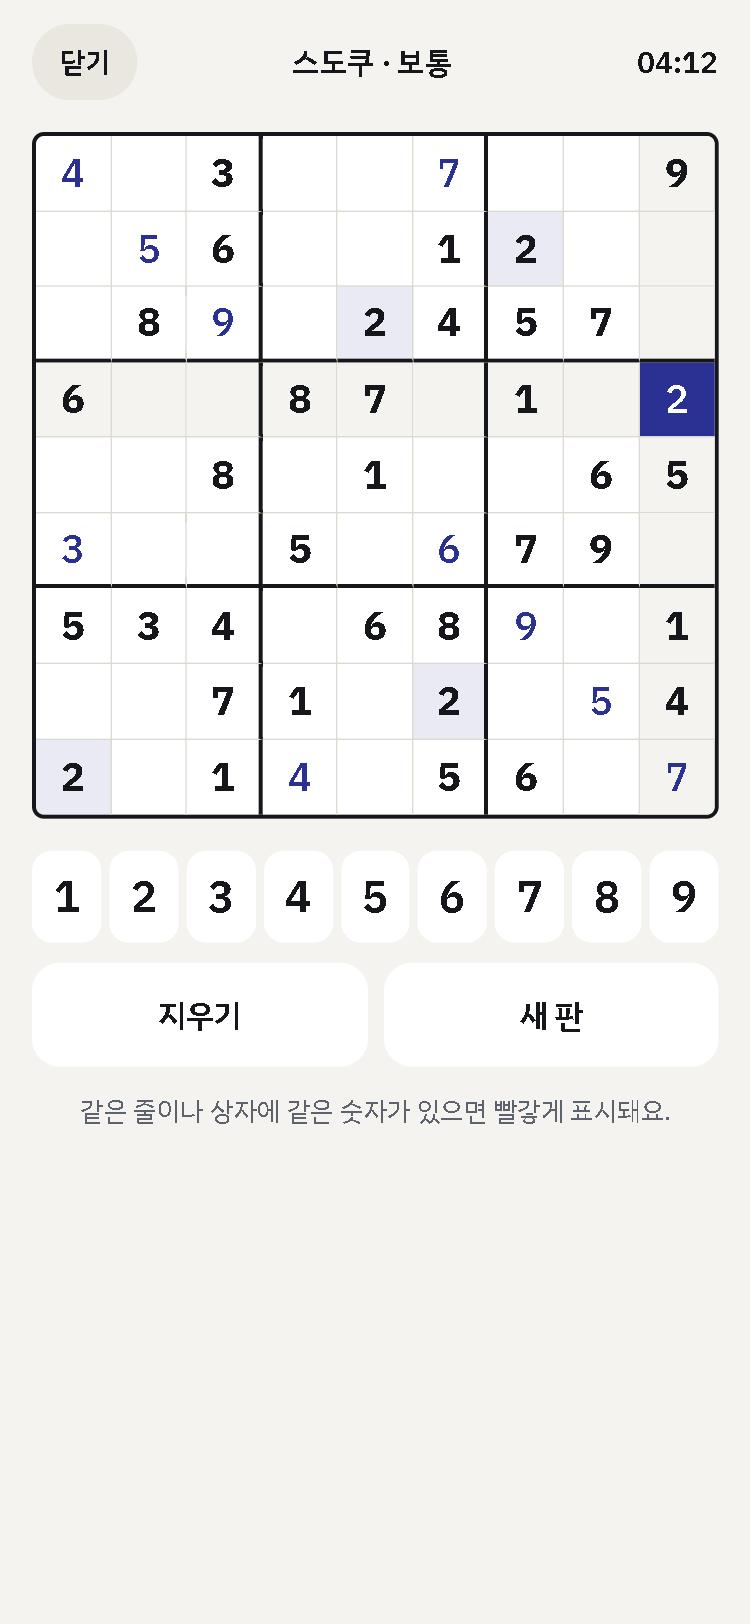
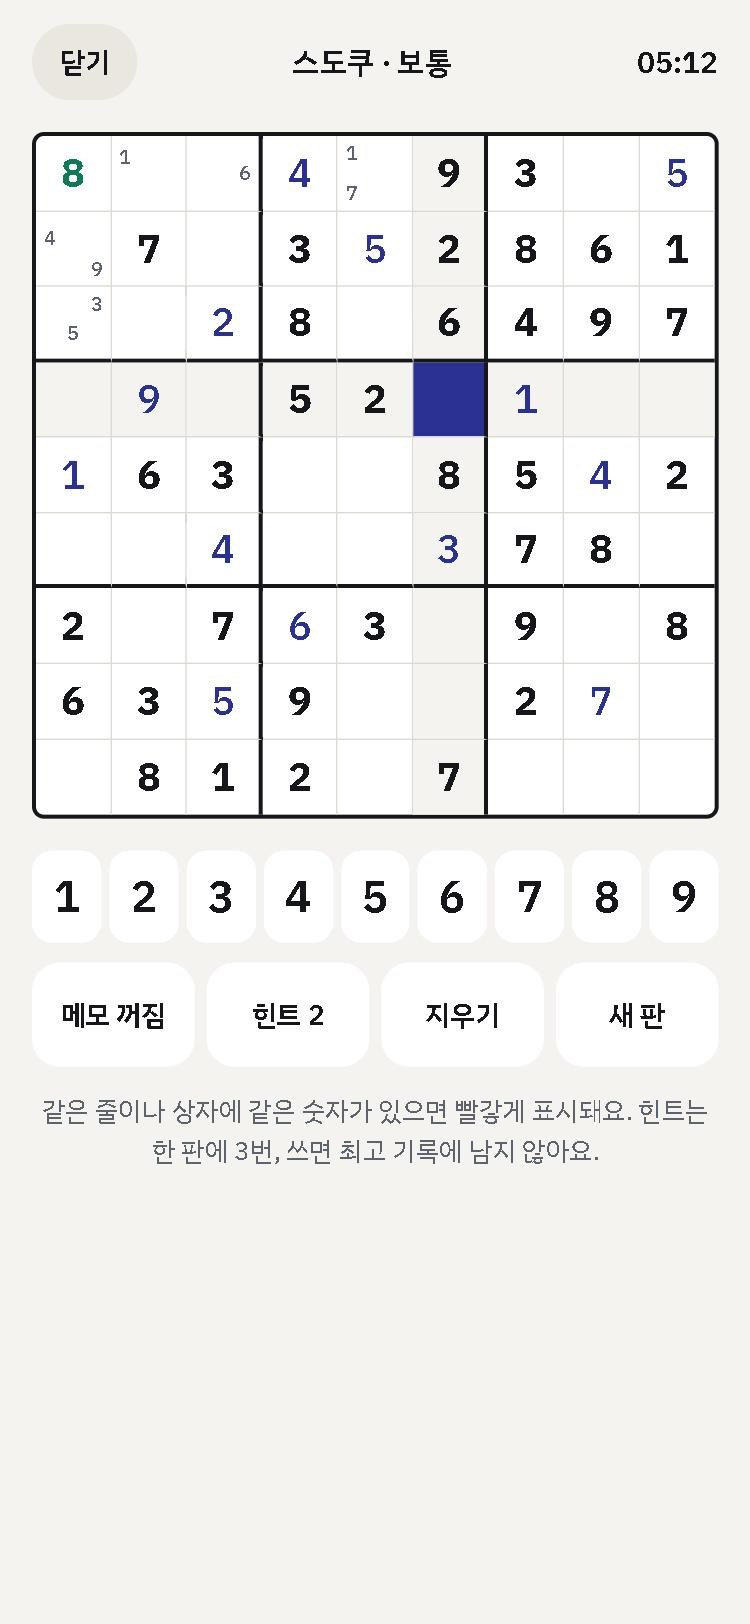
문서: 스도쿠 캡처를 메모·힌트가 보이는 화면으로, CLAUDE.md에 난이도 결정 기록

diff --git a/CLAUDE.md b/CLAUDE.md
@@ -119,6 +119,8 @@
 - **게임 기록은 증빙 묶음·정산 요청에 절대 섞지 않는다** (사장에게 보여주는 문서에 "근무 중 게임"이 보이면 안 됨)
 - **메모**(2026.10.6): "메모"를 켜고 숫자를 누르면 빈칸에 후보 숫자가 작게 적힌다(`game.notes`). 답을 넣으면 그 칸의 메모가 지워지고, 같은 줄·칸·상자의 메모에서 그 숫자가 빠진다
 - **힌트**(2026.10.6): 한 판에 3번(`MAX_HINTS`). 고른 칸이 비었거나 틀렸으면 그 칸을, 아니면 아무 빈칸 하나를 정답으로 채운다. 채운 칸은 초록 글자이고 고칠 수 없다(`game.hinted`). 힌트를 쓴 판은 최고 기록에 넣지 않는다
+- 난이도는 빈칸 수로 정한다(`LEVELS`): 쉬움 38, 보통 46, 어려움 56. 메모가 생긴 뒤 사용자와 정해 어려움만 52에서 56으로 올렸다. 답이 하나뿐인 판만 만들기 때문에 어려움은 가끔 54~55칸으로 나온다
+- 힌트를 쓴 판을 끝까지 풀어 최고 기록에 안 남는지는 직접 풀어 확인하지 못했다
 - 예전에 저장된 판에는 `notes`·`hinted`가 없을 수 있어 화면에서 `?? 기본값`으로 받는다
 - **주간 랭킹은 아직 없다.** 아래 "나중에 할 일" 참고
 
@@ -135,6 +137,7 @@
 - **본 그림은 다시 나오지 않는다**: 그림마다 번호가 있고 같은 난이도·같은 번호면 항상 같은 그림이다(번호로 난수를 정함). 난이도별로 연 그림 수(`spotSeen`)를 저장해 항상 다음 번호를 낸다. 답을 보지 않고 깬 수는 `spotCleared`, 최고 기록은 `spotBest`. 하던 판은 저장하지 않는다
   - 사용자의 이유: 스도쿠는 다시 해도 잊어버리지만 틀린그림 찾기는 그림이 익숙하면 지루하다
   - 익숙함을 줄이려고 낮·노을·밤 분위기와 자전거·자동차 자리도 번호에 따라 바뀐다(이것도 내가 넣은 것)
+- 다른 곳 찾기 난이도는 더 올리지 않기로 했다(2026.10.6). 기회 3번만으로 체감이 올라갔고, 어려움은 오히려 실패가 많을 수 있다. 사용자가 폰에서 해 보고 "보통이 싱겁다"고 하면 보통의 다른 곳을 5에서 6으로, "어려움이 안 풀린다"고 하면 각도나 기회를 조절한다
 - 스도쿠와 같은 원칙: 근무 중에만 열리고, 게임 기록은 증빙 묶음·정산 요청에 섞지 않는다
 
 ### 시연 도구 (설정 탭 맨 아래)
@@ -180,7 +183,7 @@
 - `docs/screenshots/`에 폰 크기(375×812) 캡처 6장(1-home, 2-calendar, 3-pay, 4-request, 5-sudoku, 6-spot)이 있고 README "화면 구성"에서 보여준다. 디자인이 바뀌면 다시 찍어 같은 파일 이름으로 바꾼다
 - 찍는 방법: 밝은 화면으로 두고 예시 데이터를 넣고, 탭마다 `http://localhost:5173/?shot=이름#탭이름`처럼 새로 열어서 찍는다. 화면 안에서 탭을 눌러 이동한 뒤 찍으면 캡처가 깨진다
 - 정산 요청 캡처는 메시지를 미리 만들어 둔 뒤 찍는다
-- 스도쿠 캡처(5-sudoku)는 주소로 바로 열 수 없다. 근무 중 상태와 하던 판을 미리 저장해 두고 첫 화면을 새로 연 뒤, 스도쿠 줄을 눌러서 찍는다. 다른 곳 찾기(6-spot)도 근무 중 상태에서 줄을 눌러 보통 난이도를 열고 찍는다
+- 스도쿠 캡처(5-sudoku)는 주소로 바로 열 수 없다. 근무 중 상태와 하던 판을 미리 저장해 두고 첫 화면을 새로 연 뒤, 스도쿠 줄을 눌러서 찍는다(메모와 힌트 칸이 보이게 저장해 둔 판에 `notes`와 `hinted`를 넣어 둔다). 다른 곳 찾기(6-spot)도 근무 중 상태에서 줄을 눌러 보통 난이도를 열고 찍는다
 
 ### 코드 위치
 - `src/components/` — 화면 (Home: 근무 기록, CalendarView: 캘린더, Pay: 급여 비교, Request: 정산 요청, Workplaces: 설정 탭, Sudoku·SpotGame: 게임, Evidence: 증빙 묶음, Attachments: 증빙 사진, Backup: 기록 백업, RecordForm·RecordItem: 기록 수정·표시, Modal, Icon)
